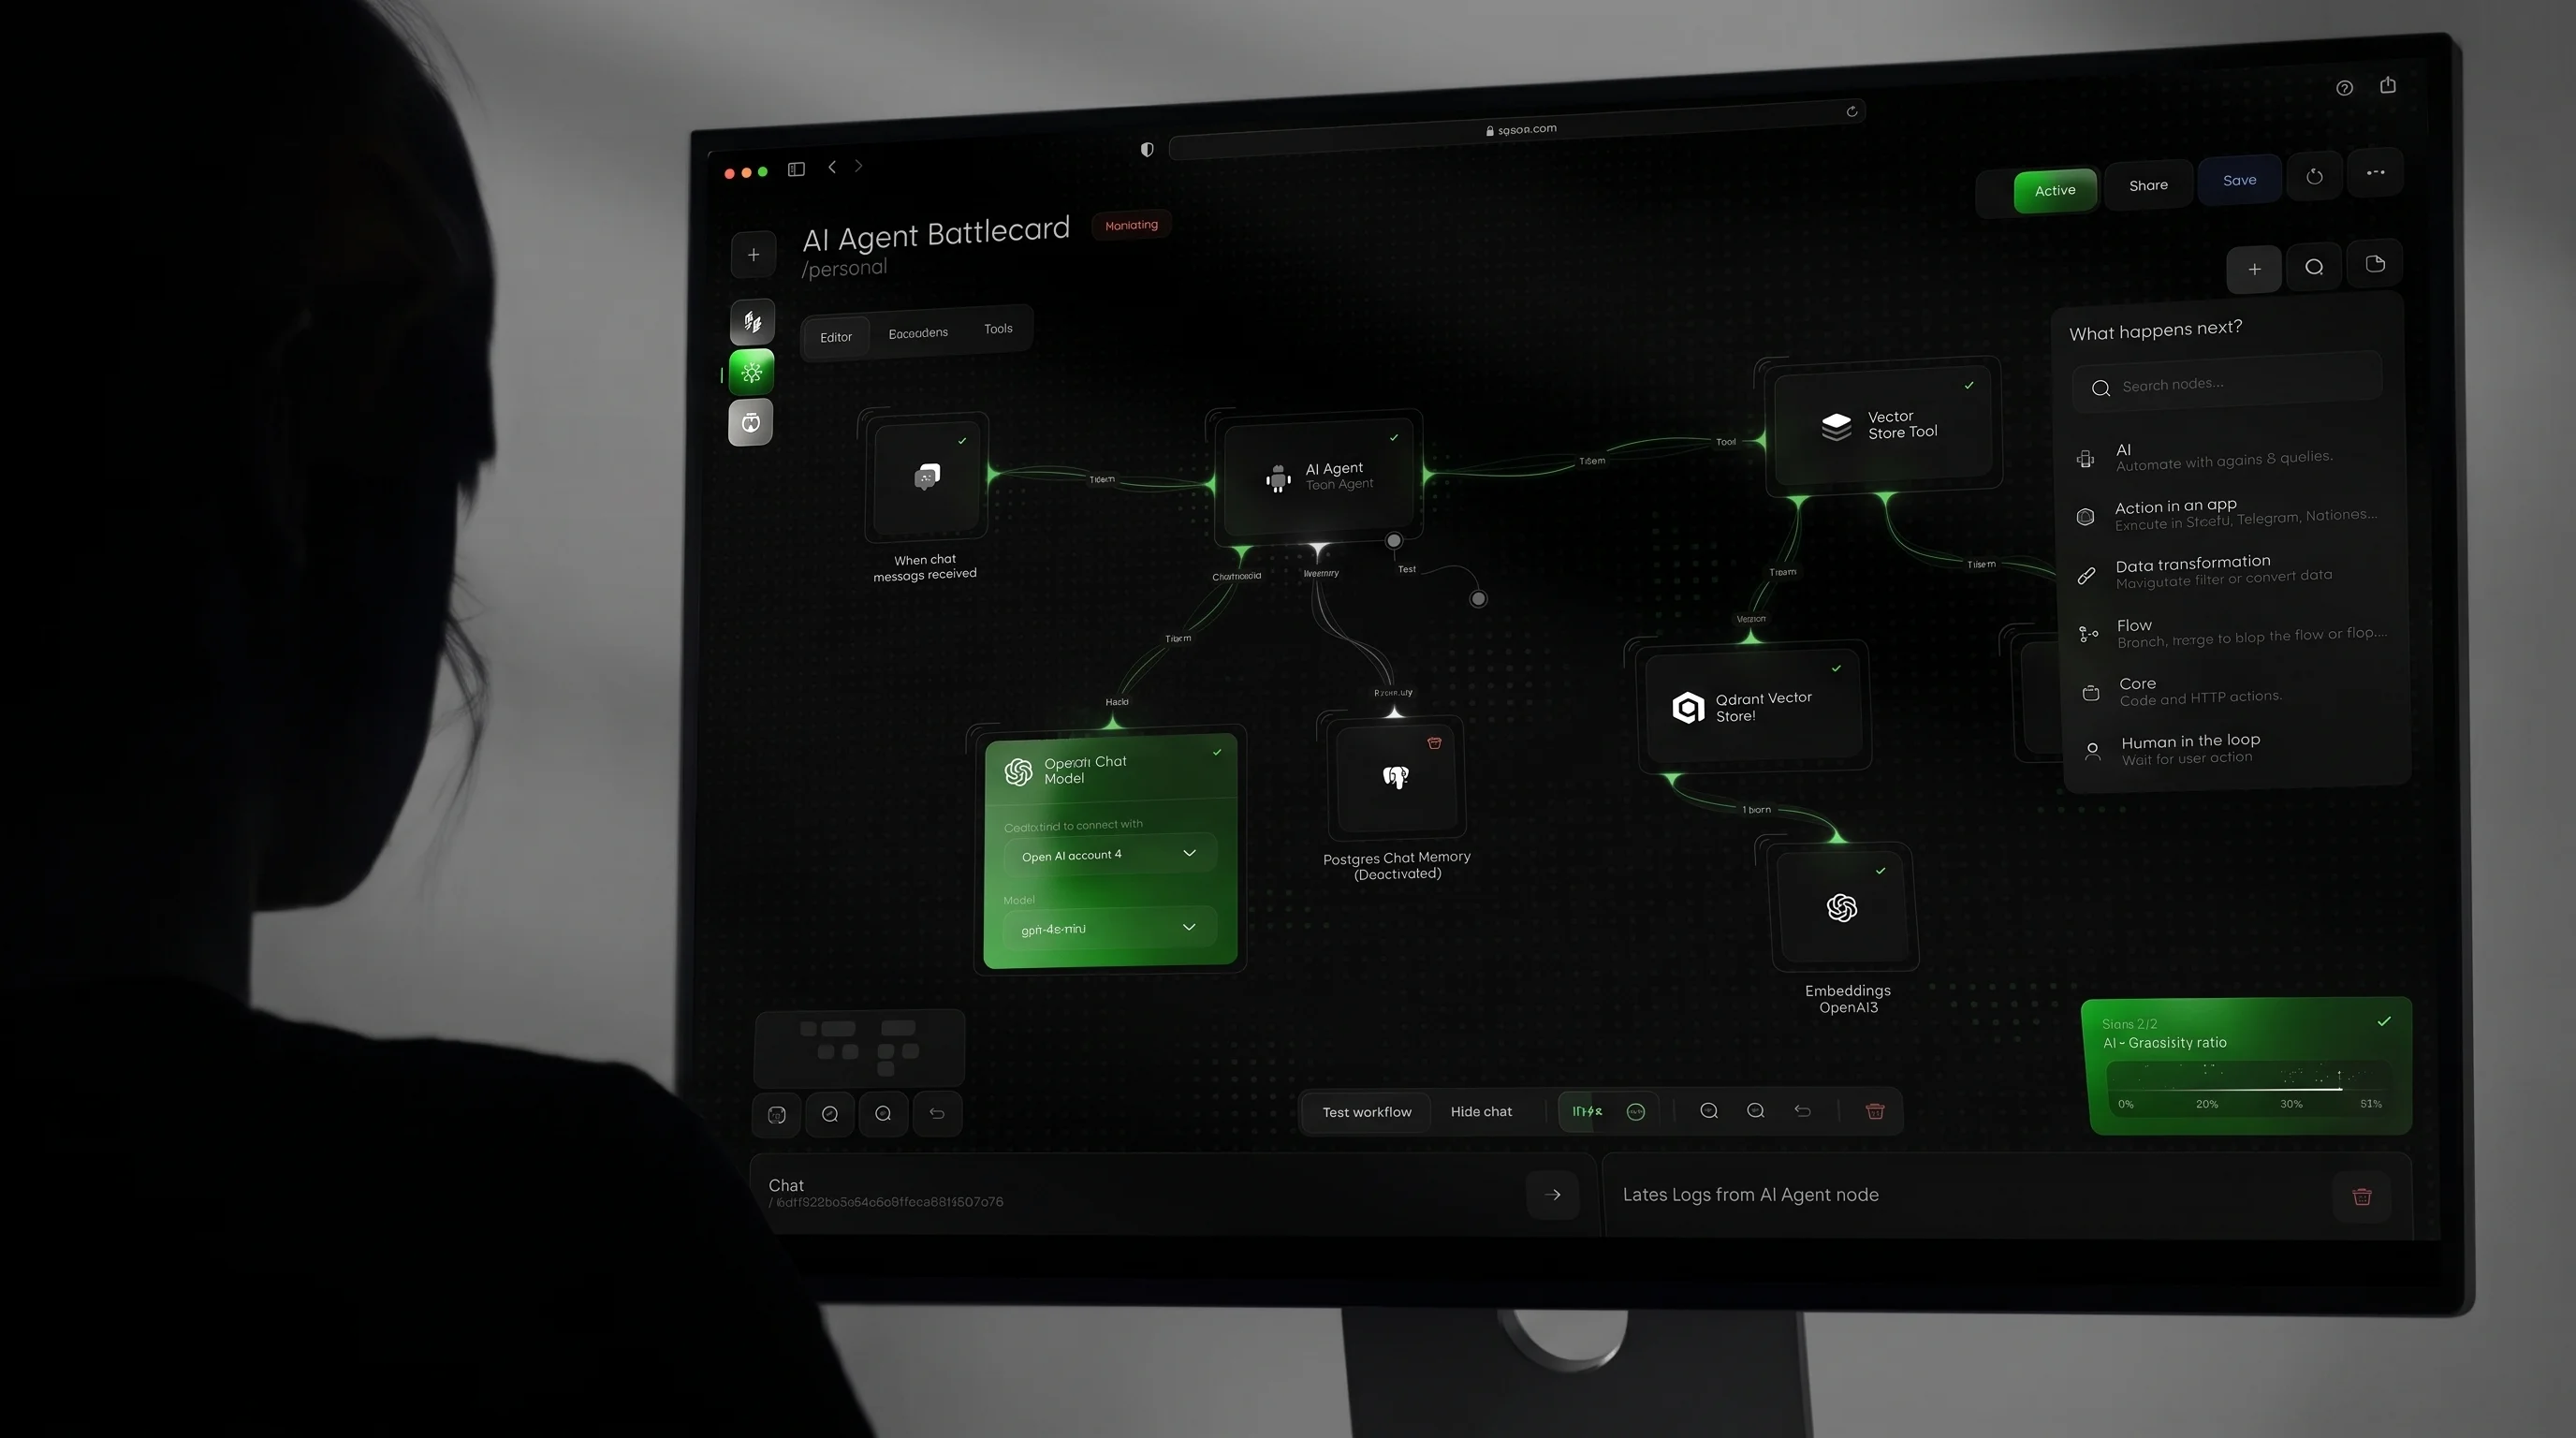
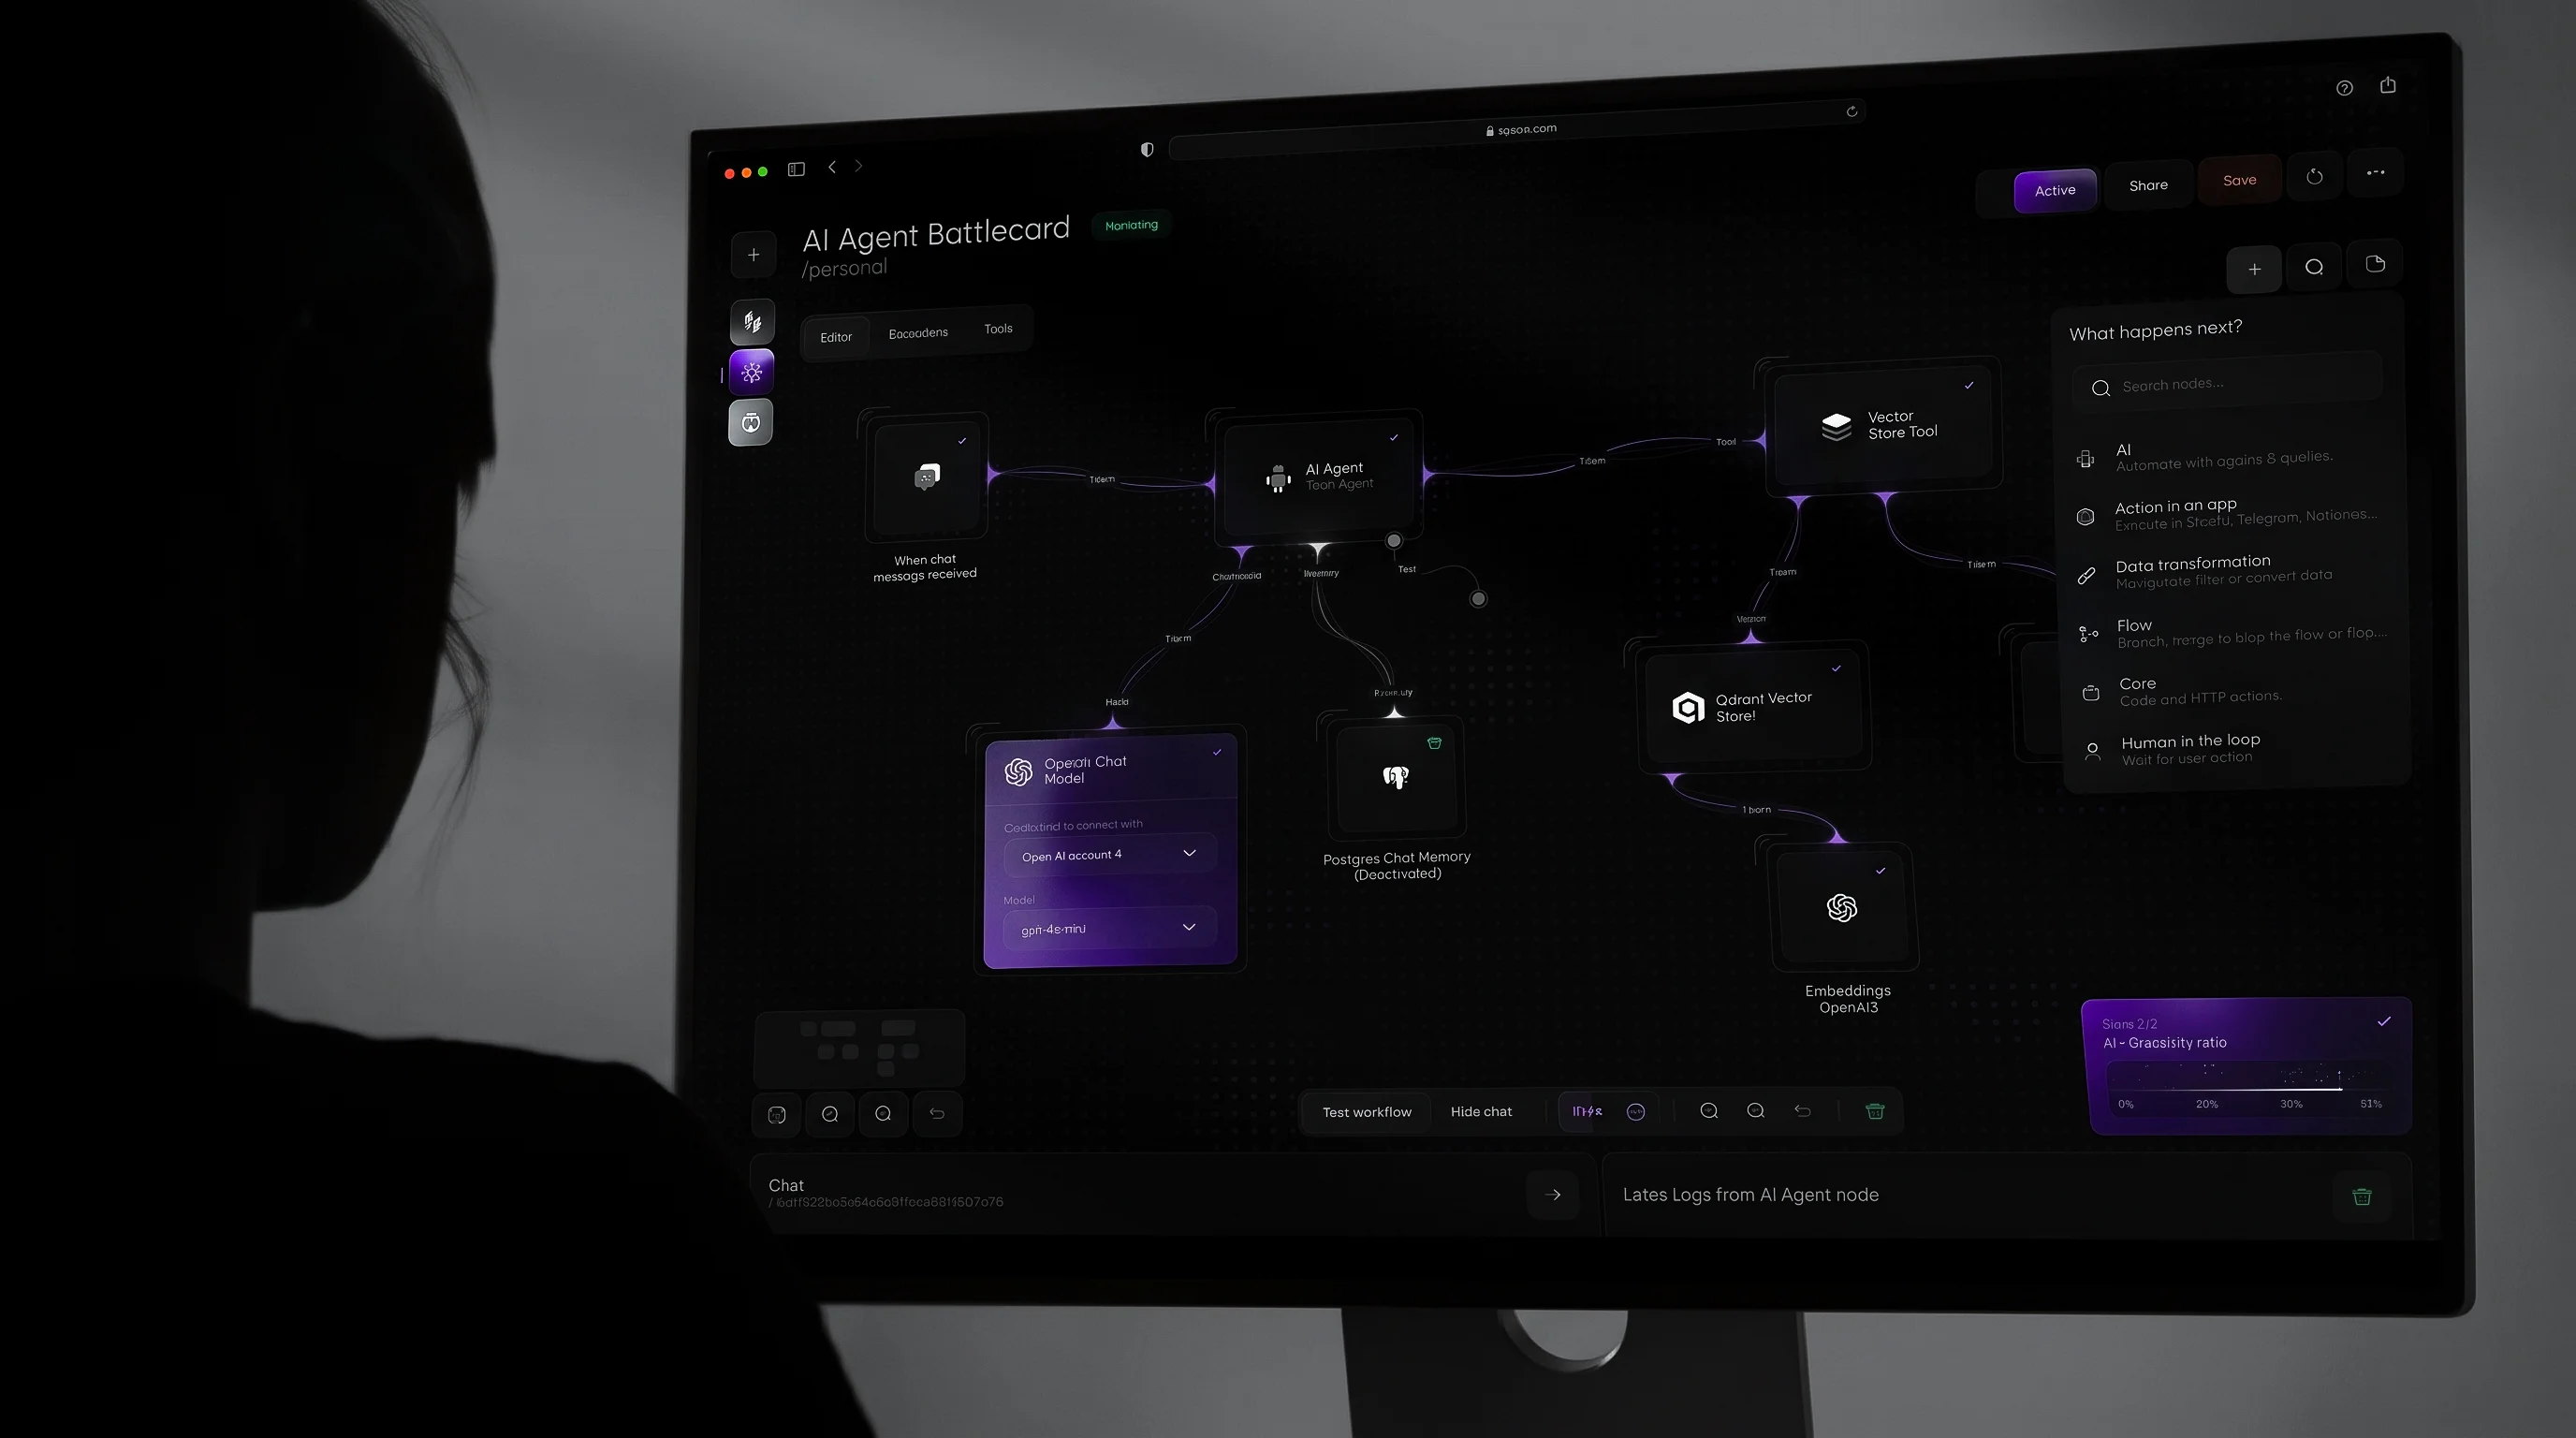
feat(mobile): optimize assets, fix routing, format texts and update layouts

diff --git a/mobile/projects.css b/mobile/projects.css
@@ -1,4 +1,4 @@
-/* === FONT FACES === */
+/* === FONT FACES === */
 @font-face {
   font-family: 'MR';
   src: url('../fonts/MR.otf') format('opentype');
@@ -718,10 +718,21 @@ padding-bottom: 30px;
   position: relative !important;
   z-index: 10 !important;
 }
-.project-header, .project-images, #proj-footer {
+.project-header, .project-images, #proj-footer { 
   position: relative;
   z-index: 10;
   background: #000;
+}
+
+#proj-footer {
+  pointer-events: auto !important;
+  z-index: 9999 !important;
+}
+
+#proj-footer .gs-reveal {
+  opacity: 1 !important;
+  visibility: visible !important;
+  transform: none !important;
 }
 
 @media (max-width: 900px) {

diff --git a/mobile/indexphone.html b/mobile/indexphone.html
@@ -38,7 +38,7 @@
   <nav id="navbar">
     <div class="nav-left">
       <a href="#hero" class="nav-isotipo-wrap">
-        <img src="../img/Isotipo.png" class="nav-isotipo" alt="BLCK VISION">
+        <img src="../img/Isotipo.webp" class="nav-isotipo" alt="BLCK VISION">
       </a>
     </div>
     <div class="nav-right">
@@ -53,7 +53,7 @@
   <!-- ══ FULLSCREEN MOBILE MENU ══════════════════════════ -->
   <div class="mobile-menu" id="mobileMenu" aria-hidden="true">
     <div class="mm-bg"></div>
-    <img src="../img/Isotipo.png" class="mm-isotipo" alt="BLCK VISION">
+    <img src="../img/Isotipo.webp" class="mm-isotipo" alt="BLCK VISION">
     <nav class="mm-nav">
       <a href="#hero" class="mm-link">INICIO</a>
       <a href="#trust" class="mm-link">NOSOTROS</a>
@@ -69,7 +69,7 @@
   <!-- ══ HERO ════════════════════════════════════════════ -->
   <section id="hero">
     <div class="hero-bg">
-      <img src="../img/H2.webp" alt="BLCK VISION Hero" class="hero-bg-img" loading="eager" decoding="async">
+      <img src="../img/mobile/HeroMobile.webp" alt="BLCK VISION Hero" class="hero-bg-img" loading="eager" decoding="async">
     </div>
     <div class="sec-bar">
       <span class="sec-bar-left">BLCK VISION</span>
@@ -119,7 +119,7 @@
       </div>
 
       <div class="srv-cards-wrap" id="srvCardsWrap">
-        <a href="../services/identidad.html" class="srv-card-row hover-target">
+        <a href="services/identidad.html" class="srv-card-row hover-target">
           <h3 class="srv-card-title">Identidad Visual</h3>
           <p class="srv-card-desc">estrategia, diseño visual, voz de marca y
             aplicaciones físicas y digitales.</p>
@@ -130,7 +130,7 @@
           </span>
         </a>
 
-        <a href="../services/web.html" class="srv-card-row hover-target">
+        <a href="services/web.html" class="srv-card-row hover-target">
           <h3 class="srv-card-title">Desarrollo Web</h3>
           <p class="srv-card-desc">Plataformas optimizadas para SEO y construidas con
             arquitectura de conversión.</p>
@@ -141,7 +141,7 @@
           </span>
         </a>
 
-        <a href="../services/automatizacion.html" class="srv-card-row hover-target">
+        <a href="services/automatizacion.html" class="srv-card-row hover-target">
           <h3 class="srv-card-title">Automatización IA</h3>
           <p class="srv-card-desc">Agentes e integraciones personalizadas que
             eliminan tareas operativas repetitivas.</p>

diff --git a/mobile/services/automatizacion.html b/mobile/services/automatizacion.html
@@ -44,7 +44,7 @@
         <nav id="navbar">
       <div class="nav-left">
         <a href="../indexphone.html#hero" class="nav-isotipo-wrap">
-          <img class="nav-isotipo" src="../../img/Isotipo.png" alt="BLCK VISION">
+          <img class="nav-isotipo" src="../../img/Isotipo.webp" alt="BLCK VISION">
         </a>
       </div>
       <div class="nav-right">
@@ -59,7 +59,7 @@
   <!-- â•â• FULLSCREEN MOBILE MENU â•â•â•â•â•â•â•â•â•â•â•â•â•â•â•â•â•â•â•â•â•â•â•â•â•â•â•â• -->
   <div class="mobile-menu" id="mobileMenu" aria-hidden="true">
     <div class="mm-bg"></div>
-    <img src="../../img/Isotipo.png" class="mm-isotipo" alt="BLCK VISION">
+    <img src="../../img/Isotipo.webp" class="mm-isotipo" alt="BLCK VISION">
     <nav class="mm-nav">
       <a href="../indexphone.html#hero" class="mm-link">INICIO</a>
       <a href="../indexphone.html#trust" class="mm-link">NOSOTROS</a>
@@ -77,7 +77,7 @@
 
     <!-- Background image only — no overlays, no isotipo -->
     <div class="srv-hero-bg">
-      <img src="../../img/srv_automatizacion.webp" alt="Automatización IA BLCK VISION" loading="eager" decoding="async">
+        <img src="../../img/mobile/svr_automatizacion.webp" alt="Automatización IA BLCK VISION" loading="eager" decoding="async">
     </div>
 
     <!-- Top bar -->
@@ -96,6 +96,10 @@
           <span class="line"><span class="line-inner">TU EQUIPO <strong>MULTIPLICADO</strong></span></span>
           <span class="line"><span class="line-inner">SIN <strong>CONTRATAR</strong></span></span>
         </h1>
+        <p class="hero-sub" style="margin-top: 20px;">
+          <span class="line">NO VENDEMOS <strong>SISTEMAS</strong>, VENDEMOS <strong>TIEMPO</strong></span>
+          <span class="line">PARA QUE TU EQUIPO <strong>DELEGUE LO OPERATIVO</strong> Y ESCALE</span>
+        </p>
       </div>
 
       <!-- RIGHT: description, centered vertically in its column -->
@@ -356,7 +360,7 @@
   <!-- ══ CONTACT CTA ════════════════════════════════════ -->
   <section id="contact">
     <div class="cta-bg" id="ctaBg">
-      <img src="../../img/srv_automatizacion.webp" alt="" class="cta-bg-img" loading="lazy" decoding="async">
+      <img src="../../img/mobile/svr_automatizacion_2.webp" alt="" class="cta-bg-img" loading="lazy" decoding="async">
     </div>
 
     <!-- STATE 1: Stat view (default) -->

diff --git a/mobile/services/identidad.html b/mobile/services/identidad.html
@@ -44,7 +44,7 @@
       <nav id="navbar">
       <div class="nav-left">
         <a href="../indexphone.html#hero" class="nav-isotipo-wrap">
-          <img class="nav-isotipo" src="../../img/Isotipo.png" alt="BLCK VISION">
+          <img class="nav-isotipo" src="../../img/Isotipo.webp" alt="BLCK VISION">
         </a>
       </div>
       <div class="nav-right">
@@ -59,7 +59,7 @@
   <!-- ══ FULLSCREEN MOBILE MENU ══════════════════════════ -->
   <div class="mobile-menu" id="mobileMenu" aria-hidden="true">
     <div class="mm-bg"></div>
-    <img src="../../img/Isotipo.png" class="mm-isotipo" alt="BLCK VISION">
+    <img src="../../img/Isotipo.webp" class="mm-isotipo" alt="BLCK VISION">
     <nav class="mm-nav">
       <a href="../indexphone.html#hero" class="mm-link">INICIO</a>
       <a href="../indexphone.html#trust" class="mm-link">NOSOTROS</a>
@@ -77,7 +77,7 @@
 
     <!-- Background image only — no overlays, no isotipo -->
     <div class="srv-hero-bg">
-      <img src="../../img/srv_identidad1.webp" alt="Identidad Visual BLCK VISION" loading="eager" decoding="async">
+      <img src="../../img/mobile/svr_identidad.webp" alt="Identidad Visual BLCK VISION" loading="eager" decoding="async">
     </div>
 
     <!-- Top bar -->
@@ -96,6 +96,10 @@
           <span class="line"><span class="line-inner">MARCAS QUE <strong>DOMINAN</strong></span></span>
           <span class="line"><span class="line-inner">SU <strong>MERCADO</strong></span></span>
         </h1>
+        <p class="hero-sub" style="margin-top: 20px;">
+          <span class="line">NO VENDEMOS <strong>LOGOS</strong>, VENDEMOS <strong>ESTRATEGIAS</strong></span>
+          <span class="line">PARA QUE TU MARCA <strong>DEJE HUELLA</strong> Y SE POSICIONE</span>
+        </p>
       </div>
 
       <!-- RIGHT: description, centered vertically in its column -->
@@ -358,7 +362,7 @@
   <!-- ══ CONTACT CTA ════════════════════════════════════ -->
   <section id="contact">
     <div class="cta-bg" id="ctaBg">
-      <img src="../../img/srv_identidad.webp" alt="" class="cta-bg-img" loading="lazy" decoding="async">
+      <img src="../../img/mobile/svr_identidad_2.webp" alt="" class="cta-bg-img" loading="lazy" decoding="async">
     </div>
 
     <!-- STATE 1: Stat view (default) -->

diff --git a/mobile/services/web.html b/mobile/services/web.html
@@ -44,7 +44,7 @@
         <nav id="navbar">
       <div class="nav-left">
         <a href="../indexphone.html#hero" class="nav-isotipo-wrap">
-          <img class="nav-isotipo" src="../../img/Isotipo.png" alt="BLCK VISION">
+          <img class="nav-isotipo" src="../../img/Isotipo.webp" alt="BLCK VISION">
         </a>
       </div>
       <div class="nav-right">
@@ -59,7 +59,7 @@
   <!-- â•â• FULLSCREEN MOBILE MENU â•â•â•â•â•â•â•â•â•â•â•â•â•â•â•â•â•â•â•â•â•â•â•â•â•â•â•â• -->
   <div class="mobile-menu" id="mobileMenu" aria-hidden="true">
     <div class="mm-bg"></div>
-    <img src="../../img/Isotipo.png" class="mm-isotipo" alt="BLCK VISION">
+    <img src="../../img/Isotipo.webp" class="mm-isotipo" alt="BLCK VISION">
     <nav class="mm-nav">
       <a href="../indexphone.html#hero" class="mm-link">INICIO</a>
       <a href="../indexphone.html#trust" class="mm-link">NOSOTROS</a>
@@ -77,7 +77,7 @@
 
     <!-- Background image only — no overlays, no isotipo -->
     <div class="srv-hero-bg">
-      <img src="../../img/srv_web.webp" alt="Desarrollo Web BLCK VISION" loading="eager" decoding="async">
+        <img src="../../img/mobile/srv_web.webp" alt="Desarrollo Web BLCK VISION" loading="eager" decoding="async">
     </div>
 
     <!-- Top bar -->
@@ -96,6 +96,10 @@
           <span class="line"><span class="line-inner">SITIOS QUE <strong>CONVIERTEN</strong></span></span>
           <span class="line"><span class="line-inner">Y <strong>ESCALAN</strong></span></span>
         </h1>
+        <p class="hero-sub" style="margin-top: 20px;">
+          <span class="line">NO VENDEMOS <strong>PÁGINAS</strong>, VENDEMOS <strong>MÁQUINAS</strong></span>
+          <span class="line">DE <strong>VENTAS</strong> Y PLATAFORMAS QUE <strong>CONVIERTEN</strong></span>
+        </p>
       </div>
 
       <!-- RIGHT: description, centered vertically in its column -->
@@ -356,7 +360,7 @@
   <!-- ══ CONTACT CTA ════════════════════════════════════ -->
   <section id="contact">
     <div class="cta-bg" id="ctaBg">
-      <img src="../../img/srv_web.webp" alt="" class="cta-bg-img" loading="lazy" decoding="async">
+      <img src="../../img/mobile/srv_web_2.webp" alt="" class="cta-bg-img" loading="lazy" decoding="async">
     </div>
 
     <!-- STATE 1: Stat view (default) -->

diff --git a/mobile/mobile.css b/mobile/mobile.css
@@ -1486,7 +1486,9 @@ body {
     text-align: center !important;
   }
 
-  .page-body .srv-hero-desc {
+  .page-body .srv-hero-desc,
+  .page-body .hero-sub,
+  .page-body .srv-hero-desc-col {
     display: none !important;
   }
 
@@ -1512,4 +1514,11 @@ body {
     font-size: clamp(2.5rem, 10vw, 3.5rem) !important;
     text-align: center;
   }
+}
+
+/* FIX FOOTER REQUERIDO */
+#footer {
+    overflow: hidden !important;
+    position: relative !important;
+    padding-top: 5vh !important;
 }

diff --git a/services/identidad.html b/services/identidad.html
@@ -69,7 +69,7 @@
 
     <!-- Background image only — no overlays, no isotipo -->
     <div class="srv-hero-bg">
-      <img src="../img/srv_identidad1.webp" alt="Identidad Visual BLCK VISION" loading="eager" decoding="async">
+      <img src="../img/svr_identidad_2.webp" alt="Identidad Visual BLCK VISION" loading="eager" decoding="async">
     </div>
 
     <!-- Top bar -->
@@ -353,7 +353,7 @@
   <!-- ══ CONTACT CTA ════════════════════════════════════ -->
   <section id="contact">
     <div class="cta-bg" id="ctaBg">
-      <img src="../img/srv_identidad.webp" alt="" class="cta-bg-img" loading="lazy" decoding="async">
+      <img src="../img/svr_identidad_2.webp" alt="" class="cta-bg-img" loading="lazy" decoding="async">
     </div>
 
     <!-- STATE 1: Stat view (default) -->

diff --git a/mobile/projects.js b/mobile/projects.js
@@ -34,7 +34,7 @@ const _allProjects = [
   const dir = prefix + p.folder + '/';
   return {
     ...p,
-    heroImg: dir + "1.webp",
+    heroImg: dir + "1M.webp",
     img2: dir + "2.webp",
     img3: dir + "3.webp",
     img4: dir + "4.webp",

diff --git a/services/automatizacion.html b/services/automatizacion.html
@@ -351,7 +351,7 @@
   <!-- ══ CONTACT CTA ════════════════════════════════════ -->
   <section id="contact">
     <div class="cta-bg" id="ctaBg">
-      <img src="../img/srv_automatizacion.webp" alt="" class="cta-bg-img" loading="lazy" decoding="async">
+      <img src="../img/svr_automatizacion_2.webp" alt="" class="cta-bg-img" loading="lazy" decoding="async">
     </div>
 
     <!-- STATE 1: Stat view (default) -->

diff --git a/services/web.html b/services/web.html
@@ -351,7 +351,7 @@
   <!-- ══ CONTACT CTA ════════════════════════════════════ -->
   <section id="contact">
     <div class="cta-bg" id="ctaBg">
-      <img src="../img/srv_web.webp" alt="" class="cta-bg-img" loading="lazy" decoding="async">
+      <img src="../img/svr_web_2.webp" alt="" class="cta-bg-img" loading="lazy" decoding="async">
     </div>
 
     <!-- STATE 1: Stat view (default) -->